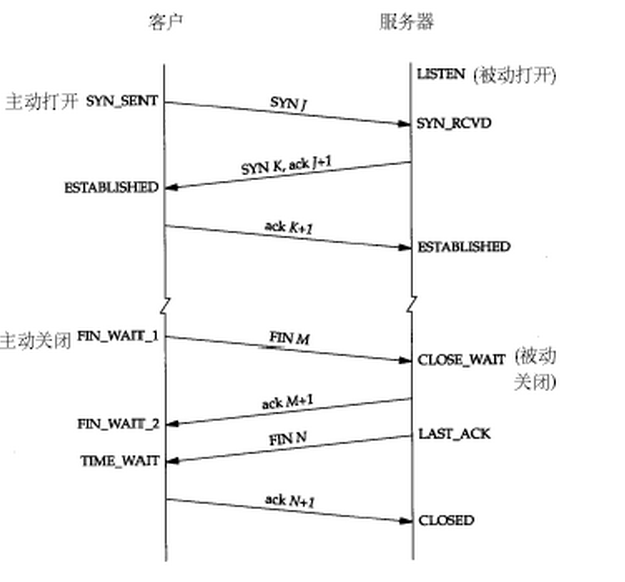
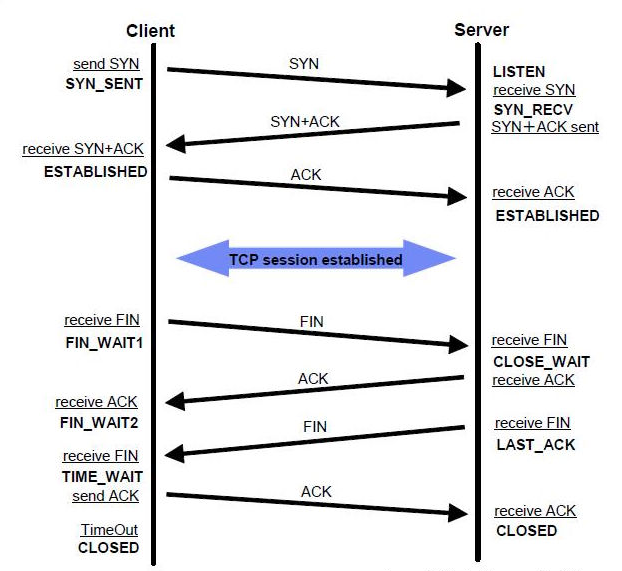
feat : new

Changed region(s): [[0.0, 0.0, 0.9775, 0.9825], [0.6109, 0.0, 0.7026, 0.0595]]

diff --git a/_posts/study/更新中/2018-07-04-网络基础知识整理.md b/_posts/study/更新中/2018-07-04-网络基础知识整理.md
@@ -101,22 +101,45 @@ CLOSED - 没有任何连接状态；
 
 
 
-**客户端TCP状态迁移：**
-CLOSED->SYN_SENT->ESTABLISHED->FIN_WAIT_1->FIN_WAIT_2->TIME_WAIT->CLOSED
-服务器TCP状态迁移：
-CLOSED->LISTEN->SYN收到->ESTABLISHED->CLOSE_WAIT->LAST_ACK->CLOSED
+第一次握手：建立连接时，客户端发送SYN包(syn=j)到服务器，并进入SYN_SEND状态，等待服务器确认； 
+
+第二次握手：服务器收到SYN包，必须确认客户的SYN（ack=j+1），同时自己也发送一个SYN包（syn=k），即SYN+ACK包，此时服务器进 入SYN_RECV状态； 
+
+第三次握手：客户端收到服务器的SYN＋ACK包，向服务器发送确认包ACK(ack=k+1)，此包发送完毕，客户端和服务器进入 连接状态，完成三次握手，客户端与服务器开始传送数据.
+
+```
+握手过程中传送的包里”不包含数据 “，三次握手完毕后，客户端与服务器才正式开始传送数据。理想状态下，TCP连接一旦建立，在通信双方中的任何一方主动关闭连接之前，TCP连接都将被一直保持下去。
+```
+
+
 
 ![png](https://xilankong.github.io/resource/tcp.png)
 
 
 
+如上：
+
+### TCP四次挥手断开连接
+
+由于 TCP 连接是全双工的，因此每个方向都必须单独进行关闭。这个原则是当一方完成它的数据发送任务后就能发送一个FIN 来终止这个方向的发送通道。收到一个 FIN 只意味着这一方向上没有数据流动，一个 TCP 连接在收到一个 FIN 后仍能发送数据。首先进行关闭的一方将执行主动关闭，而另一方执行被动关闭。 
+
+（ 1 ）客户端 A 发送一个 FIN ，用来关闭客户 A 到服务器 B 的数据传送。 
+（ 2 ）服务器 B 收到这个 FIN ，它返回一个 ACK ，确认序号为收到的序号加 1 。和 SYN 一样，一个FIN 将占用一个序号。 
+（ 3 ）服务器 B 关闭与客户端 A 的连接，发送一个 FIN 给客户端 A 。 
+（ 4 ）客户端 A 发回 ACK 报文确认，并将确认序号设置为收到序号加 1 ,客服端关闭与服务器的连接。
 
 
 
+### 拓展
 
-
-
-
+1. 为什么TCP建立连接协议是三次握手，而关闭连接却是四次握手呢？ 
+   - 这是因为服务端的LISTEN状态下的SOCKET当收到SYN报文的建连请求后，它可以把ACK和SYN（ACK起应答作用，而SYN起同步作用）放在一 个报文里来发送。
+   - 但关闭连接时，当收到对方的FIN报文通知时，它仅仅表示对方没有数据发送给你了；但未必你所有的数据都全部发送给对方了，所以你可以未 必会马上会关闭SOCKET,也即你可能还需要发送一些数据给对方之后，再发送FIN报文给对方来表示你同意现在可以关闭连接了，所以它这里的ACK报文 和FIN报文多数情况下都是分开发送的。 
+2. 为什么TIME_WAIT状态还需要等2MSL后才能返回到CLOSED状态？  
+   因为虽然双方都同意关闭连接了，而且握手的4个报文也都发送完毕，按理可以直接回到CLOSED 状态(就好比从SYN_SENT 状态到ESTABLISH 状态那样)，但是我们必须假想网络是不可靠的，你无法保证你(客户端)最后发送的ACK报文一定会被对方收到，就是说对方处于LAST_ACK 状态下的SOCKET可能会因为超时未收到ACK报文，而重发FIN报文，所以这个TIME_WAIT 状态的作用就是用来重发可能丢失的ACK报文。
+3. 关闭TCP连接一定需要4次挥手吗?
+   - 不一定，4次挥手关闭TCP连接是最安全的做法。但在有些时候，我们不喜欢TIME_WAIT 状态(如当MSL数值设置过大导致服务器端有太多TIME_WAIT状态的TCP连接，减少这些条目数可以更快地关闭连接，为新连接释放更多资源)
+   - 我们可以通过设置SOCKET变量的SO_LINGER标志来避免SOCKET在close()之后进入TIME_WAIT状态，这时将通过发送RST强制终止TCP连接(取代正常的TCP四次握手的终止方式)。但这并不是一个很好的主意，TIME_WAIT 对于我们来说往往是有利的
 
 
 
